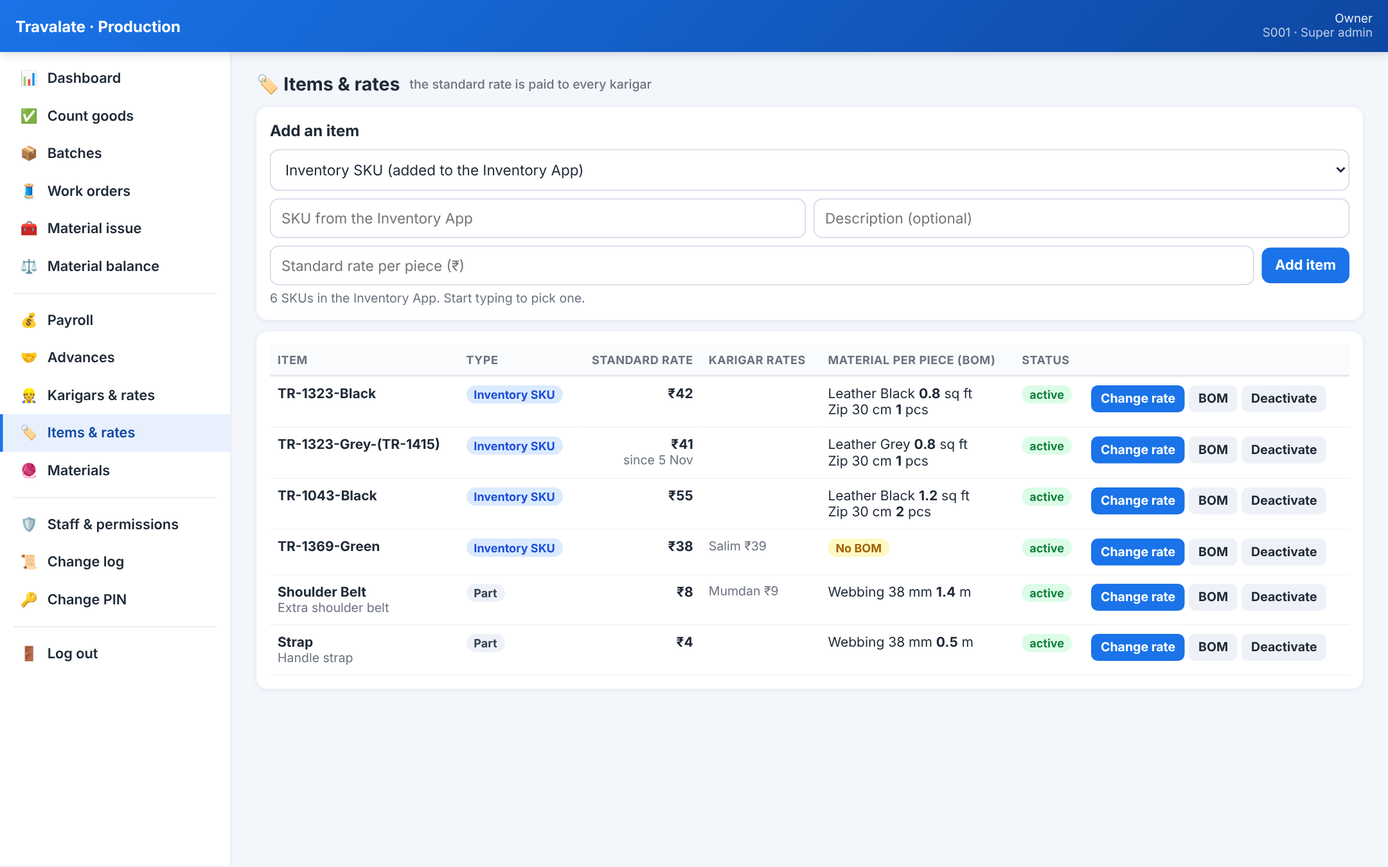
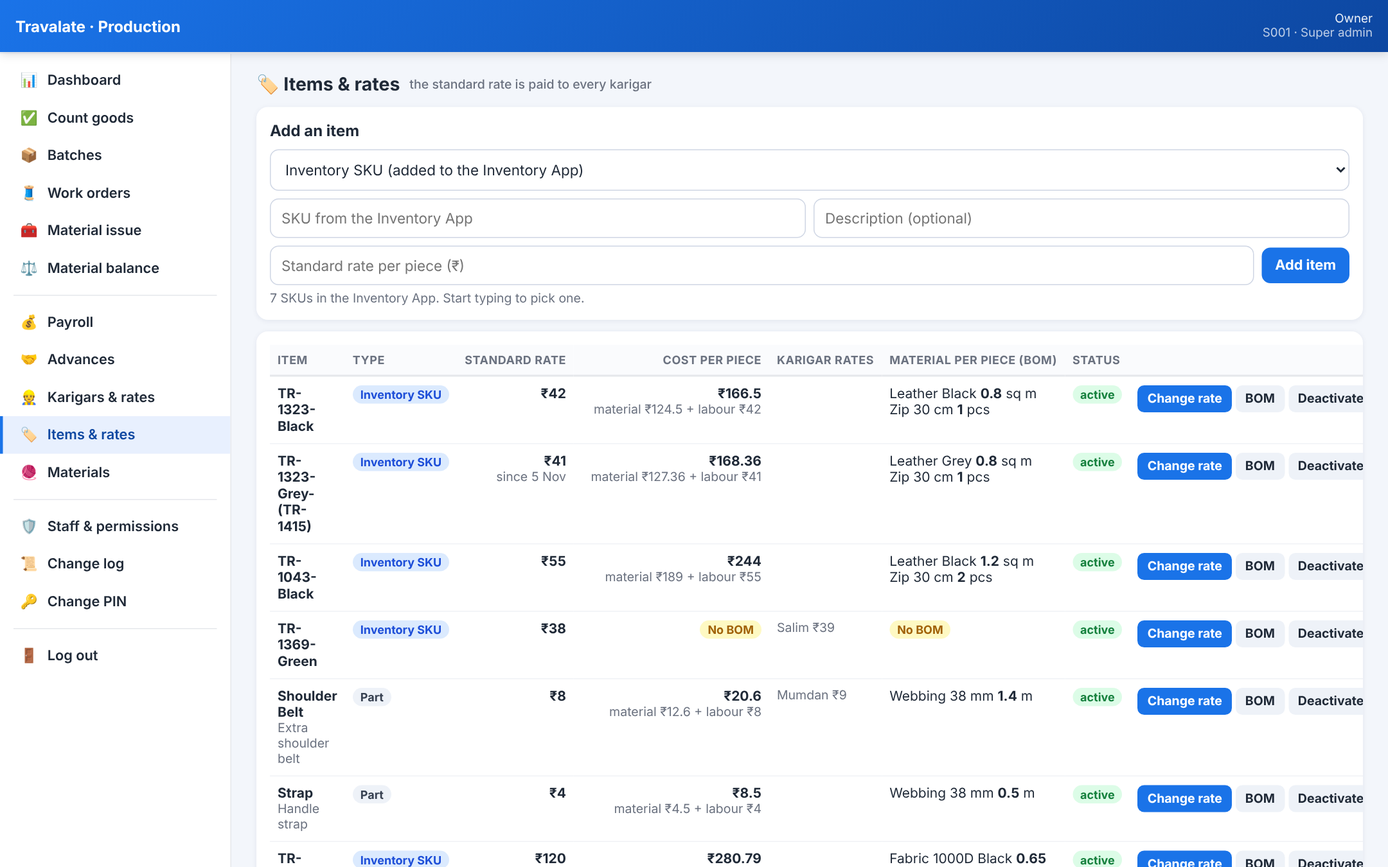
Production app: material prices and production cost per piece
- Materials have a price as bought (roll: length x width; by weight: price per kg and grams per unit;
  by count: per piece or pack) converted to the BOM unit; price history in 'Material Prices'.
- Each issue saves the cost per unit of the day; lots show material + labour cost per piece and in total.
- Items & rates show the production cost per piece with a breakdown.

Claude-Session: https://claude.ai/code/session_01Kh5UPgEYYGq7tCgf8f7WJ8

diff --git a/production-app/Index.html b/production-app/Index.html
@@ -502,14 +502,16 @@ VIEWS.orders = function (all) {
         (r.canRate ? '<div class="row" style="margin-top:8px"><input id="woR" type="number" step="any" inputmode="decimal" placeholder="Special rate for this lot (blank = normal rate)" oninput="woHint()"></div>' +
           '<div class="chk" id="woFutureRow" style="display:none"><input type="checkbox" id="woF"> Also use this rate for this karigar\'s future lots of this item</div>' : '') +
         '<div class="muted" id="woHint" style="margin-top:6px"></div><div class="muted">The lot\'s material (quantity × material per piece) is issued to the karigar automatically. A different person confirms the hand-over in Material issue.</div><button class="btn block" onclick="saveWo(this)">Add work order</button></div>' : '') +
-      '<div class="card scroll"><table class="tbl"><tr><th>Lot</th><th>Karigar</th><th>Item</th><th class="r">Rate</th><th class="r">Ordered</th><th class="r">Received</th><th class="r">To make</th><th>Material for the lot</th><th></th></tr>' +
+      '<div class="card scroll"><table class="tbl"><tr><th>Lot</th><th>Karigar</th><th>Item</th><th class="r">Rate</th><th class="r">Ordered</th><th class="r">Received</th><th class="r">To make</th><th>Material for the lot</th><th class="r">Cost / piece</th><th class="r">Lot cost</th><th></th></tr>' +
       (r.list.map(function (o) {
         var rate = o.rate !== null ? money(o.rate) + '<div>' + srcPill(o.rateSource) + '</div>' : (o.rateNow !== null ? money(o.rateNow) : '<span class="pill warn">No rate</span>');
         var btns = (o.open && r.canRate ? '<button class="btn sm" onclick="lotRate(\'' + o.id + '\')">Rate</button> ' : '') +
           (o.open ? (r.canEdit ? '<button class="btn sec sm" onclick="woStatus(\'' + o.id + '\',\'CLOSED\',this)">Close</button>' : '<span class="pill info">Open</span>') : o.done ? '<span class="pill ok">Done</span>' : '<span class="pill">Closed</span>' + (r.canEdit ? ' <button class="btn sec sm" onclick="woStatus(\'' + o.id + '\',\'OPEN\',this)">Reopen</button>' : ''));
         return '<tr><td><b>' + o.id + '</b><div class="muted">' + d(o.date) + '</div></td><td>' + esc(o.karigar) + '</td><td>' + esc(o.item) + (o.type === 'PART' ? ' <span class="pill">part</span>' : '') + '</td><td class="r">' + rate + '</td><td class="r">' + o.qty + '</td><td class="r">' + o.received + '</td><td class="r"><b>' + o.remaining + '</b></td>' +
-          '<td class="muted">' + o.material.map(function (m) { return esc(m.material) + ' ' + num(m.qty) + ' ' + esc(m.unit); }).join('<br>') + '</td><td style="white-space:nowrap">' + btns + '</td></tr>';
-      }).join('') || '<tr><td colspan="9" class="muted">No work orders.</td></tr>') + '</table></div>');
+          '<td class="muted">' + o.material.map(function (m) { return esc(m.material) + ' ' + num(m.qty) + ' ' + esc(m.unit); }).join('<br>') + '</td>' +
+          '<td class="r"><b>' + (o.cost.perPiece === null ? '–' : money(o.cost.perPiece)) + '</b><div class="muted">material ' + money(o.cost.materialPerPiece) + '</div>' + (o.cost.missing.length ? '<span class="pill warn">no price</span>' : '') + '</td>' +
+          '<td class="r">' + (o.cost.total === null ? '–' : money(o.cost.total)) + '</td><td style="white-space:nowrap">' + btns + '</td></tr>';
+      }).join('') || '<tr><td colspan="11" class="muted">No work orders.</td></tr>') + '</table></div>');
   }).catch(function (e) { render('<div class="msg err">' + esc(e.message) + '</div>'); });
 };
 function woHint() {
@@ -743,9 +745,10 @@ VIEWS.items = function () {
       (r.canEdit ? '<div class="card"><h2>Add an item</h2><div class="row"><select id="itT" onchange="itType()"><option value="SKU">Inventory SKU (added to the Inventory App)</option><option value="PART">Part (paid, not in inventory)</option></select></div>' +
         '<div class="row" style="margin-top:8px"><input id="itC" list="invSkus" placeholder="SKU from the Inventory App"><datalist id="invSkus"></datalist><input id="itN" placeholder="Description (optional)"></div>' +
         '<div class="row" style="margin-top:8px"><input id="itR" type="number" step="any" inputmode="decimal" placeholder="Standard rate per piece (₹)"><button class="btn fix" onclick="addItem(this)">Add item</button></div><div class="muted" id="itHint" style="margin-top:6px">Loading the SKU list from the Inventory App…</div></div>' : '') +
-      '<div class="card scroll"><table class="tbl"><tr><th>Item</th><th>Type</th><th class="r">Standard rate</th><th>Karigar rates</th><th>Material per piece (BOM)</th><th>Status</th><th></th></tr>' + r.list.map(function (i) {
+      '<div class="card scroll"><table class="tbl"><tr><th>Item</th><th>Type</th><th class="r">Standard rate</th><th class="r">Cost per piece</th><th>Karigar rates</th><th>Material per piece (BOM)</th><th>Status</th><th></th></tr>' + r.list.map(function (i) {
         return '<tr><td><b>' + esc(i.code) + '</b>' + (i.name ? '<div class="muted">' + esc(i.name) + '</div>' : '') + '</td><td>' + (i.type === 'SKU' ? '<span class="pill info">Inventory SKU</span>' : '<span class="pill">Part</span>') + '</td>' +
           '<td class="r">' + (i.rate === null ? '<span class="pill warn">No rate</span>' : '<b>' + money(i.rate) + '</b>') + (i.rateHistory.length > 1 ? '<div class="muted">since ' + d(i.rateHistory[0].from) + '</div>' : '') + '</td>' +
+          '<td class="r">' + costCell(i.cost, 'itemCost(\'' + q(i.code) + '\')') + '</td>' +
           '<td class="muted">' + i.karigarRates.map(function (k) { return esc(k.name) + ' ' + money(k.rate); }).join('<br>') + '</td>' +
           '<td>' + (i.bom.map(function (b) { var m = mats[b.material] || { name: b.material, unit: '' }; return esc(m.name) + ' <b>' + num(b.qty) + '</b> ' + esc(m.unit); }).join('<br>') || '<span class="pill warn">No BOM</span>') + '</td>' +
           '<td>' + (i.active ? '<span class="pill ok">active</span>' : '<span class="pill">inactive</span>') + '</td><td style="white-space:nowrap">' + (r.canEdit ? '<button class="btn sm" onclick="stdRate(\'' + q(i.code) + '\')">Change rate</button> <button class="btn sec sm" onclick="bomForm(\'' + q(i.code) + '\')">BOM</button> <button class="btn sec sm" onclick="toggleItem(\'' + q(i.code) + '\')">' + (i.active ? 'Deactivate' : 'Activate') + '</button>' : '') + '</td></tr>';
@@ -760,13 +763,51 @@ VIEWS.materials = function () {
   api('itemList', S.token).then(function (r) {
     S.data.il = r;
     var used = {}; r.list.forEach(function (i) { i.bom.forEach(function (b) { (used[b.material] = used[b.material] || []).push(i.code); }); });
-    render('<h1 class="page">🧶 Raw materials</h1>' +
-      (r.canEdit ? '<div class="card"><h2>Add a material</h2><div class="row"><input id="mtC" placeholder="Code (e.g. LEA-BLK)"><input id="mtN" placeholder="Name"><input id="mtU" placeholder="Unit (sq ft, m, pcs)"><button class="btn fix" onclick="addMat(this)">Add</button></div></div>' : '') +
-      '<div class="card scroll"><table class="tbl"><tr><th>Code</th><th>Name</th><th>Unit</th><th>Used in (BOM)</th></tr>' + r.materials.map(function (m) {
-        return '<tr><td><b>' + esc(m.code) + '</b></td><td>' + esc(m.name) + '</td><td>' + esc(m.unit) + '</td><td class="muted">' + (used[m.code] || []).map(esc).join(', ') + '</td></tr>';
-      }).join('') + '</table></div><div class="muted">The material per piece of each item (BOM) is set in Items & rates → BOM.</div>');
+    render('<h1 class="page">🧶 Raw materials <small>price as bought → cost per unit used in the BOM</small></h1>' +
+      (r.canEdit ? '<div class="card"><h2>Add a material</h2><div class="row"><input id="mtC" placeholder="Code (e.g. FAB-1000D)"><input id="mtN" placeholder="Name (e.g. Fabric 1000D Black)">' +
+        '<select id="mtU"><option value="">Unit used per piece…</option><option>sq m</option><option>m</option><option>inch</option><option>cm</option><option>pcs</option><option>g</option><option>kg</option></select><button class="btn fix" onclick="addMat(this)">Add</button></div>' +
+        '<div class="muted" style="margin-top:6px">The unit is what the BOM uses for ONE piece: fabric in sq m, chain in inch, kunda in pcs. Then set its price with "Price".</div></div>' : '') +
+      '<div class="card scroll"><table class="tbl"><tr><th>Material</th><th>Unit</th><th>Bought as</th><th class="r">Price</th><th class="r">Cost per unit</th><th>Used in</th><th></th></tr>' + r.materials.map(function (m) {
+        return '<tr><td><b>' + esc(m.name) + '</b><div class="muted">' + esc(m.code) + '</div></td><td>' + esc(m.unit) + '</td><td class="muted">' + esc((m.conversion && m.conversion.text) || '') + '</td>' +
+          '<td class="r">' + (m.price === null ? '<span class="pill warn">No price</span>' : money(m.price) + ' / ' + esc(m.purchaseUnit) + '<div class="muted">' + d(m.priceDate) + '</div>') + '</td>' +
+          '<td class="r">' + (m.unitCost === null ? '–' : '<b>' + money(m.unitCost) + '</b> / ' + esc(m.unit)) + '</td><td class="muted">' + (used[m.code] || []).map(esc).join(', ') + '</td>' +
+          '<td>' + (r.canEdit ? '<button class="btn sm" onclick="matPrice(\'' + q(m.code) + '\')">Price</button>' : '') + '</td></tr>';
+      }).join('') + '</table></div><div class="muted">The material per piece of each item (BOM) is set in Items & rates → BOM. A new price is used for material issued from now on; earlier lots keep the cost they were issued at.</div>');
   }).catch(function (e) { render('<div class="msg err">' + esc(e.message) + '</div>'); });
 };
+function matPrice(code) {
+  var m = S.data.il.materials.filter(function (x) { return x.code === code; })[0], c = m.conversion || {};
+  var t = m.purchaseType || (/^sq/i.test(m.unit) ? 'ROLL' : m.unit === 'pcs' ? 'PACK' : 'UNIT');
+  var radio = function (v, label) { return '<div class="chk"><input type="radio" name="mpT" value="' + v + '"' + (t === v ? ' checked' : '') + ' onchange="mpShow()"> ' + label + '</div>'; };
+  modal('Price · ' + m.name, '<div class="kv"><div>Unit per piece</div><div><b>' + esc(m.unit) + '</b></div><div>Cost now</div><div>' + (m.unitCost === null ? '–' : money(m.unitCost) + ' / ' + esc(m.unit)) + '</div></div>' +
+    '<label class="f">How is it bought?</label>' + radio('ROLL', 'Roll (length × width, priced per roll)') + radio('WEIGHT', 'By weight (priced per kg)') + radio('PACK', 'By count (per piece or per pack)') + radio('UNIT', 'Per ' + esc(m.unit)) +
+    '<div id="mpROLL" class="mp"><div class="row"><div><label class="f">Roll length (m)</label><input id="mpL" type="number" step="any" value="' + (c.length || '') + '" oninput="mpCalc()"></div><div><label class="f">Width (m)</label><input id="mpW" type="number" step="any" value="' + (c.width || '') + '" oninput="mpCalc()"></div></div></div>' +
+    '<div id="mpWEIGHT" class="mp"><label class="f">Weight of 1 ' + esc(m.unit) + ' in grams</label><input id="mpG" type="number" step="any" value="' + (c.grams || '') + '" oninput="mpCalc()"></div>' +
+    '<div id="mpPACK" class="mp"><label class="f">Pieces in one pack (1 = priced per piece)</label><input id="mpN" type="number" step="any" value="' + (c.count || 1) + '" oninput="mpCalc()"></div>' +
+    '<label class="f" id="mpPL">Price</label><input id="mpP" type="number" step="any" inputmode="decimal" value="' + (m.price || '') + '" oninput="mpCalc()">' +
+    '<div class="msg info" id="mpOut" style="margin-top:10px"></div><label class="f">Note (e.g. new roll received)</label><input id="mpNote"><button class="btn block" id="mpB">Save price</button>' +
+    (m.history.length ? '<h3>Price history</h3>' + m.history.map(function (h) { return '<div class="muted">' + d(h.date) + ': ' + money(h.price) + ' / ' + esc(h.purchaseUnit) + ' · ' + esc(h.text) + ' → <b>' + money(h.unitCost) + '</b> / ' + esc(m.unit) + ' · ' + esc(h.by) + (h.note ? ' · ' + esc(h.note) : '') + '</div>'; }).join('') : ''));
+  S.data.mp = m; mpShow();
+  $('mpB').onclick = function () {
+    busy(this, true);
+    api('setMaterialPrice', S.token, { code: code, type: mpType(), price: val('mpP'), length: val('mpL'), width: val('mpW'), grams: val('mpG'), count: val('mpN'), note: val('mpNote') })
+      .then(function () { closeModal(); toast('Price saved'); go('materials'); }).catch(function (e) { fail(e, $('mpB')); });
+  };
+}
+function mpType() { return document.querySelector('input[name=mpT]:checked').value; }
+function mpShow() {
+  var t = mpType(); ['ROLL', 'WEIGHT', 'PACK'].forEach(function (x) { $('mp' + x).style.display = x === t ? 'block' : 'none'; });
+  $('mpPL').textContent = t === 'ROLL' ? 'Price of one roll' : t === 'WEIGHT' ? 'Price per kg' : t === 'PACK' ? 'Price of one pack (or one piece)' : 'Price per ' + S.data.mp.unit;
+  mpCalc();
+}
+function mpCalc() {
+  var t = mpType(), m = S.data.mp, p = Number(val('mpP')), per = 0, how = '';
+  if (t === 'ROLL') { per = Number(val('mpL')) * Number(val('mpW')); how = 'One roll = ' + num(per) + ' sq m'; }
+  else if (t === 'WEIGHT') { var g = Number(val('mpG')); per = g > 0 ? 1000 / g : 0; how = '1 kg = ' + num(per) + ' ' + m.unit; }
+  else if (t === 'PACK') { per = Number(val('mpN')); how = 'One pack = ' + num(per) + ' ' + m.unit; }
+  else { per = 1; how = ''; }
+  $('mpOut').innerHTML = p > 0 && per > 0 ? (how ? esc(how) + ' → ' : '') + '<b>' + money(Math.round(p / per * 10000) / 10000) + ' per ' + esc(m.unit) + '</b>' : 'Fill in the price' + (t === 'UNIT' ? '' : ' and the size') + ' to see the cost per ' + esc(m.unit) + '.';
+}
 function itType() { $('itC').placeholder = val('itT') === 'SKU' ? 'SKU from the Inventory App' : 'Part name (e.g. Shoulder Belt)'; }
 function addItem(btn) { busy(btn, true); api('saveItem', S.token, { code: val('itC'), name: val('itN'), type: val('itT'), rate: val('itR') }).then(function () { toast('Item added'); go('items'); }).catch(function (e) { fail(e, btn); }); }
 function toggleItem(code) { var i = S.data.il.list.filter(function (x) { return x.code === code; })[0]; api('saveItem', S.token, { code: i.code, name: i.name, type: i.type, active: !i.active, checkInventory: false }).then(function () { go('items'); }).catch(function (e) { toast(e.message); }); }
@@ -794,6 +835,19 @@ function stdRate(code) {
     busy(this, true);
     api('saveStandardRate', S.token, { item: code, rate: val('srR'), apply: apply, orderIds: ids, note: val('srN') }).then(function () { closeModal(); toast('Standard rate saved'); go('items'); }).catch(function (e) { fail(e, $('srB')); });
   };
+}
+function costCell(c, onclick) {
+  if (c.noBom) return '<span class="pill warn">No BOM</span>';
+  return '<a style="cursor:pointer" onclick="' + onclick + '"><b>' + (c.total === null ? '–' : money(c.total)) + '</b></a><div class="muted">material ' + money(c.material) + (c.labour !== null ? ' + labour ' + money(c.labour) : '') + '</div>' +
+    (c.missing.length ? '<span class="pill warn">no price: ' + c.missing.map(esc).join(', ') + '</span>' : '');
+}
+function itemCost(code) {
+  var i = S.data.il.list.filter(function (x) { return x.code === code; })[0], c = i.cost;
+  modal('Cost of 1 piece · ' + code, '<table class="tbl"><tr><th>Material</th><th class="r">Per piece</th><th class="r">Cost per unit</th><th class="r">Cost</th></tr>' +
+    c.lines.map(function (l) { return '<tr><td>' + esc(l.material) + '</td><td class="r">' + num(l.qty) + ' ' + esc(l.unit) + '</td><td class="r">' + (l.unitCost === null ? '<span class="pill warn">no price</span>' : money(l.unitCost) + ' / ' + esc(l.unit)) + '</td><td class="r">' + (l.cost === null ? '–' : money(l.cost)) + '</td></tr>'; }).join('') +
+    '<tr><td colspan="3">Material</td><td class="r"><b>' + money(c.material) + '</b></td></tr><tr><td colspan="3">Labour (standard rate)</td><td class="r">' + (c.labour === null ? '–' : money(c.labour)) + '</td></tr>' +
+    '<tfoot><tr><td colspan="3">Production cost per piece</td><td class="r">' + (c.total === null ? '–' : money(c.total)) + '</td></tr></tfoot></table>' +
+    '<div class="muted" style="margin-top:8px">At today\'s material prices. Each lot\'s real cost (at the price its material was issued at) is in Work orders.</div>');
 }
 function srSel() { $('srLots').style.display = document.querySelector('input[name=srA]:checked').value === 'selected' ? 'block' : 'none'; }
 function bomForm(code) {

diff --git a/production/index.html b/production/index.html
@@ -502,14 +502,16 @@ VIEWS.orders = function (all) {
         (r.canRate ? '<div class="row" style="margin-top:8px"><input id="woR" type="number" step="any" inputmode="decimal" placeholder="Special rate for this lot (blank = normal rate)" oninput="woHint()"></div>' +
           '<div class="chk" id="woFutureRow" style="display:none"><input type="checkbox" id="woF"> Also use this rate for this karigar\'s future lots of this item</div>' : '') +
         '<div class="muted" id="woHint" style="margin-top:6px"></div><div class="muted">The lot\'s material (quantity × material per piece) is issued to the karigar automatically. A different person confirms the hand-over in Material issue.</div><button class="btn block" onclick="saveWo(this)">Add work order</button></div>' : '') +
-      '<div class="card scroll"><table class="tbl"><tr><th>Lot</th><th>Karigar</th><th>Item</th><th class="r">Rate</th><th class="r">Ordered</th><th class="r">Received</th><th class="r">To make</th><th>Material for the lot</th><th></th></tr>' +
+      '<div class="card scroll"><table class="tbl"><tr><th>Lot</th><th>Karigar</th><th>Item</th><th class="r">Rate</th><th class="r">Ordered</th><th class="r">Received</th><th class="r">To make</th><th>Material for the lot</th><th class="r">Cost / piece</th><th class="r">Lot cost</th><th></th></tr>' +
       (r.list.map(function (o) {
         var rate = o.rate !== null ? money(o.rate) + '<div>' + srcPill(o.rateSource) + '</div>' : (o.rateNow !== null ? money(o.rateNow) : '<span class="pill warn">No rate</span>');
         var btns = (o.open && r.canRate ? '<button class="btn sm" onclick="lotRate(\'' + o.id + '\')">Rate</button> ' : '') +
           (o.open ? (r.canEdit ? '<button class="btn sec sm" onclick="woStatus(\'' + o.id + '\',\'CLOSED\',this)">Close</button>' : '<span class="pill info">Open</span>') : o.done ? '<span class="pill ok">Done</span>' : '<span class="pill">Closed</span>' + (r.canEdit ? ' <button class="btn sec sm" onclick="woStatus(\'' + o.id + '\',\'OPEN\',this)">Reopen</button>' : ''));
         return '<tr><td><b>' + o.id + '</b><div class="muted">' + d(o.date) + '</div></td><td>' + esc(o.karigar) + '</td><td>' + esc(o.item) + (o.type === 'PART' ? ' <span class="pill">part</span>' : '') + '</td><td class="r">' + rate + '</td><td class="r">' + o.qty + '</td><td class="r">' + o.received + '</td><td class="r"><b>' + o.remaining + '</b></td>' +
-          '<td class="muted">' + o.material.map(function (m) { return esc(m.material) + ' ' + num(m.qty) + ' ' + esc(m.unit); }).join('<br>') + '</td><td style="white-space:nowrap">' + btns + '</td></tr>';
-      }).join('') || '<tr><td colspan="9" class="muted">No work orders.</td></tr>') + '</table></div>');
+          '<td class="muted">' + o.material.map(function (m) { return esc(m.material) + ' ' + num(m.qty) + ' ' + esc(m.unit); }).join('<br>') + '</td>' +
+          '<td class="r"><b>' + (o.cost.perPiece === null ? '–' : money(o.cost.perPiece)) + '</b><div class="muted">material ' + money(o.cost.materialPerPiece) + '</div>' + (o.cost.missing.length ? '<span class="pill warn">no price</span>' : '') + '</td>' +
+          '<td class="r">' + (o.cost.total === null ? '–' : money(o.cost.total)) + '</td><td style="white-space:nowrap">' + btns + '</td></tr>';
+      }).join('') || '<tr><td colspan="11" class="muted">No work orders.</td></tr>') + '</table></div>');
   }).catch(function (e) { render('<div class="msg err">' + esc(e.message) + '</div>'); });
 };
 function woHint() {
@@ -743,9 +745,10 @@ VIEWS.items = function () {
       (r.canEdit ? '<div class="card"><h2>Add an item</h2><div class="row"><select id="itT" onchange="itType()"><option value="SKU">Inventory SKU (added to the Inventory App)</option><option value="PART">Part (paid, not in inventory)</option></select></div>' +
         '<div class="row" style="margin-top:8px"><input id="itC" list="invSkus" placeholder="SKU from the Inventory App"><datalist id="invSkus"></datalist><input id="itN" placeholder="Description (optional)"></div>' +
         '<div class="row" style="margin-top:8px"><input id="itR" type="number" step="any" inputmode="decimal" placeholder="Standard rate per piece (₹)"><button class="btn fix" onclick="addItem(this)">Add item</button></div><div class="muted" id="itHint" style="margin-top:6px">Loading the SKU list from the Inventory App…</div></div>' : '') +
-      '<div class="card scroll"><table class="tbl"><tr><th>Item</th><th>Type</th><th class="r">Standard rate</th><th>Karigar rates</th><th>Material per piece (BOM)</th><th>Status</th><th></th></tr>' + r.list.map(function (i) {
+      '<div class="card scroll"><table class="tbl"><tr><th>Item</th><th>Type</th><th class="r">Standard rate</th><th class="r">Cost per piece</th><th>Karigar rates</th><th>Material per piece (BOM)</th><th>Status</th><th></th></tr>' + r.list.map(function (i) {
         return '<tr><td><b>' + esc(i.code) + '</b>' + (i.name ? '<div class="muted">' + esc(i.name) + '</div>' : '') + '</td><td>' + (i.type === 'SKU' ? '<span class="pill info">Inventory SKU</span>' : '<span class="pill">Part</span>') + '</td>' +
           '<td class="r">' + (i.rate === null ? '<span class="pill warn">No rate</span>' : '<b>' + money(i.rate) + '</b>') + (i.rateHistory.length > 1 ? '<div class="muted">since ' + d(i.rateHistory[0].from) + '</div>' : '') + '</td>' +
+          '<td class="r">' + costCell(i.cost, 'itemCost(\'' + q(i.code) + '\')') + '</td>' +
           '<td class="muted">' + i.karigarRates.map(function (k) { return esc(k.name) + ' ' + money(k.rate); }).join('<br>') + '</td>' +
           '<td>' + (i.bom.map(function (b) { var m = mats[b.material] || { name: b.material, unit: '' }; return esc(m.name) + ' <b>' + num(b.qty) + '</b> ' + esc(m.unit); }).join('<br>') || '<span class="pill warn">No BOM</span>') + '</td>' +
           '<td>' + (i.active ? '<span class="pill ok">active</span>' : '<span class="pill">inactive</span>') + '</td><td style="white-space:nowrap">' + (r.canEdit ? '<button class="btn sm" onclick="stdRate(\'' + q(i.code) + '\')">Change rate</button> <button class="btn sec sm" onclick="bomForm(\'' + q(i.code) + '\')">BOM</button> <button class="btn sec sm" onclick="toggleItem(\'' + q(i.code) + '\')">' + (i.active ? 'Deactivate' : 'Activate') + '</button>' : '') + '</td></tr>';
@@ -760,13 +763,51 @@ VIEWS.materials = function () {
   api('itemList', S.token).then(function (r) {
     S.data.il = r;
     var used = {}; r.list.forEach(function (i) { i.bom.forEach(function (b) { (used[b.material] = used[b.material] || []).push(i.code); }); });
-    render('<h1 class="page">🧶 Raw materials</h1>' +
-      (r.canEdit ? '<div class="card"><h2>Add a material</h2><div class="row"><input id="mtC" placeholder="Code (e.g. LEA-BLK)"><input id="mtN" placeholder="Name"><input id="mtU" placeholder="Unit (sq ft, m, pcs)"><button class="btn fix" onclick="addMat(this)">Add</button></div></div>' : '') +
-      '<div class="card scroll"><table class="tbl"><tr><th>Code</th><th>Name</th><th>Unit</th><th>Used in (BOM)</th></tr>' + r.materials.map(function (m) {
-        return '<tr><td><b>' + esc(m.code) + '</b></td><td>' + esc(m.name) + '</td><td>' + esc(m.unit) + '</td><td class="muted">' + (used[m.code] || []).map(esc).join(', ') + '</td></tr>';
-      }).join('') + '</table></div><div class="muted">The material per piece of each item (BOM) is set in Items & rates → BOM.</div>');
+    render('<h1 class="page">🧶 Raw materials <small>price as bought → cost per unit used in the BOM</small></h1>' +
+      (r.canEdit ? '<div class="card"><h2>Add a material</h2><div class="row"><input id="mtC" placeholder="Code (e.g. FAB-1000D)"><input id="mtN" placeholder="Name (e.g. Fabric 1000D Black)">' +
+        '<select id="mtU"><option value="">Unit used per piece…</option><option>sq m</option><option>m</option><option>inch</option><option>cm</option><option>pcs</option><option>g</option><option>kg</option></select><button class="btn fix" onclick="addMat(this)">Add</button></div>' +
+        '<div class="muted" style="margin-top:6px">The unit is what the BOM uses for ONE piece: fabric in sq m, chain in inch, kunda in pcs. Then set its price with "Price".</div></div>' : '') +
+      '<div class="card scroll"><table class="tbl"><tr><th>Material</th><th>Unit</th><th>Bought as</th><th class="r">Price</th><th class="r">Cost per unit</th><th>Used in</th><th></th></tr>' + r.materials.map(function (m) {
+        return '<tr><td><b>' + esc(m.name) + '</b><div class="muted">' + esc(m.code) + '</div></td><td>' + esc(m.unit) + '</td><td class="muted">' + esc((m.conversion && m.conversion.text) || '') + '</td>' +
+          '<td class="r">' + (m.price === null ? '<span class="pill warn">No price</span>' : money(m.price) + ' / ' + esc(m.purchaseUnit) + '<div class="muted">' + d(m.priceDate) + '</div>') + '</td>' +
+          '<td class="r">' + (m.unitCost === null ? '–' : '<b>' + money(m.unitCost) + '</b> / ' + esc(m.unit)) + '</td><td class="muted">' + (used[m.code] || []).map(esc).join(', ') + '</td>' +
+          '<td>' + (r.canEdit ? '<button class="btn sm" onclick="matPrice(\'' + q(m.code) + '\')">Price</button>' : '') + '</td></tr>';
+      }).join('') + '</table></div><div class="muted">The material per piece of each item (BOM) is set in Items & rates → BOM. A new price is used for material issued from now on; earlier lots keep the cost they were issued at.</div>');
   }).catch(function (e) { render('<div class="msg err">' + esc(e.message) + '</div>'); });
 };
+function matPrice(code) {
+  var m = S.data.il.materials.filter(function (x) { return x.code === code; })[0], c = m.conversion || {};
+  var t = m.purchaseType || (/^sq/i.test(m.unit) ? 'ROLL' : m.unit === 'pcs' ? 'PACK' : 'UNIT');
+  var radio = function (v, label) { return '<div class="chk"><input type="radio" name="mpT" value="' + v + '"' + (t === v ? ' checked' : '') + ' onchange="mpShow()"> ' + label + '</div>'; };
+  modal('Price · ' + m.name, '<div class="kv"><div>Unit per piece</div><div><b>' + esc(m.unit) + '</b></div><div>Cost now</div><div>' + (m.unitCost === null ? '–' : money(m.unitCost) + ' / ' + esc(m.unit)) + '</div></div>' +
+    '<label class="f">How is it bought?</label>' + radio('ROLL', 'Roll (length × width, priced per roll)') + radio('WEIGHT', 'By weight (priced per kg)') + radio('PACK', 'By count (per piece or per pack)') + radio('UNIT', 'Per ' + esc(m.unit)) +
+    '<div id="mpROLL" class="mp"><div class="row"><div><label class="f">Roll length (m)</label><input id="mpL" type="number" step="any" value="' + (c.length || '') + '" oninput="mpCalc()"></div><div><label class="f">Width (m)</label><input id="mpW" type="number" step="any" value="' + (c.width || '') + '" oninput="mpCalc()"></div></div></div>' +
+    '<div id="mpWEIGHT" class="mp"><label class="f">Weight of 1 ' + esc(m.unit) + ' in grams</label><input id="mpG" type="number" step="any" value="' + (c.grams || '') + '" oninput="mpCalc()"></div>' +
+    '<div id="mpPACK" class="mp"><label class="f">Pieces in one pack (1 = priced per piece)</label><input id="mpN" type="number" step="any" value="' + (c.count || 1) + '" oninput="mpCalc()"></div>' +
+    '<label class="f" id="mpPL">Price</label><input id="mpP" type="number" step="any" inputmode="decimal" value="' + (m.price || '') + '" oninput="mpCalc()">' +
+    '<div class="msg info" id="mpOut" style="margin-top:10px"></div><label class="f">Note (e.g. new roll received)</label><input id="mpNote"><button class="btn block" id="mpB">Save price</button>' +
+    (m.history.length ? '<h3>Price history</h3>' + m.history.map(function (h) { return '<div class="muted">' + d(h.date) + ': ' + money(h.price) + ' / ' + esc(h.purchaseUnit) + ' · ' + esc(h.text) + ' → <b>' + money(h.unitCost) + '</b> / ' + esc(m.unit) + ' · ' + esc(h.by) + (h.note ? ' · ' + esc(h.note) : '') + '</div>'; }).join('') : ''));
+  S.data.mp = m; mpShow();
+  $('mpB').onclick = function () {
+    busy(this, true);
+    api('setMaterialPrice', S.token, { code: code, type: mpType(), price: val('mpP'), length: val('mpL'), width: val('mpW'), grams: val('mpG'), count: val('mpN'), note: val('mpNote') })
+      .then(function () { closeModal(); toast('Price saved'); go('materials'); }).catch(function (e) { fail(e, $('mpB')); });
+  };
+}
+function mpType() { return document.querySelector('input[name=mpT]:checked').value; }
+function mpShow() {
+  var t = mpType(); ['ROLL', 'WEIGHT', 'PACK'].forEach(function (x) { $('mp' + x).style.display = x === t ? 'block' : 'none'; });
+  $('mpPL').textContent = t === 'ROLL' ? 'Price of one roll' : t === 'WEIGHT' ? 'Price per kg' : t === 'PACK' ? 'Price of one pack (or one piece)' : 'Price per ' + S.data.mp.unit;
+  mpCalc();
+}
+function mpCalc() {
+  var t = mpType(), m = S.data.mp, p = Number(val('mpP')), per = 0, how = '';
+  if (t === 'ROLL') { per = Number(val('mpL')) * Number(val('mpW')); how = 'One roll = ' + num(per) + ' sq m'; }
+  else if (t === 'WEIGHT') { var g = Number(val('mpG')); per = g > 0 ? 1000 / g : 0; how = '1 kg = ' + num(per) + ' ' + m.unit; }
+  else if (t === 'PACK') { per = Number(val('mpN')); how = 'One pack = ' + num(per) + ' ' + m.unit; }
+  else { per = 1; how = ''; }
+  $('mpOut').innerHTML = p > 0 && per > 0 ? (how ? esc(how) + ' → ' : '') + '<b>' + money(Math.round(p / per * 10000) / 10000) + ' per ' + esc(m.unit) + '</b>' : 'Fill in the price' + (t === 'UNIT' ? '' : ' and the size') + ' to see the cost per ' + esc(m.unit) + '.';
+}
 function itType() { $('itC').placeholder = val('itT') === 'SKU' ? 'SKU from the Inventory App' : 'Part name (e.g. Shoulder Belt)'; }
 function addItem(btn) { busy(btn, true); api('saveItem', S.token, { code: val('itC'), name: val('itN'), type: val('itT'), rate: val('itR') }).then(function () { toast('Item added'); go('items'); }).catch(function (e) { fail(e, btn); }); }
 function toggleItem(code) { var i = S.data.il.list.filter(function (x) { return x.code === code; })[0]; api('saveItem', S.token, { code: i.code, name: i.name, type: i.type, active: !i.active, checkInventory: false }).then(function () { go('items'); }).catch(function (e) { toast(e.message); }); }
@@ -794,6 +835,19 @@ function stdRate(code) {
     busy(this, true);
     api('saveStandardRate', S.token, { item: code, rate: val('srR'), apply: apply, orderIds: ids, note: val('srN') }).then(function () { closeModal(); toast('Standard rate saved'); go('items'); }).catch(function (e) { fail(e, $('srB')); });
   };
+}
+function costCell(c, onclick) {
+  if (c.noBom) return '<span class="pill warn">No BOM</span>';
+  return '<a style="cursor:pointer" onclick="' + onclick + '"><b>' + (c.total === null ? '–' : money(c.total)) + '</b></a><div class="muted">material ' + money(c.material) + (c.labour !== null ? ' + labour ' + money(c.labour) : '') + '</div>' +
+    (c.missing.length ? '<span class="pill warn">no price: ' + c.missing.map(esc).join(', ') + '</span>' : '');
+}
+function itemCost(code) {
+  var i = S.data.il.list.filter(function (x) { return x.code === code; })[0], c = i.cost;
+  modal('Cost of 1 piece · ' + code, '<table class="tbl"><tr><th>Material</th><th class="r">Per piece</th><th class="r">Cost per unit</th><th class="r">Cost</th></tr>' +
+    c.lines.map(function (l) { return '<tr><td>' + esc(l.material) + '</td><td class="r">' + num(l.qty) + ' ' + esc(l.unit) + '</td><td class="r">' + (l.unitCost === null ? '<span class="pill warn">no price</span>' : money(l.unitCost) + ' / ' + esc(l.unit)) + '</td><td class="r">' + (l.cost === null ? '–' : money(l.cost)) + '</td></tr>'; }).join('') +
+    '<tr><td colspan="3">Material</td><td class="r"><b>' + money(c.material) + '</b></td></tr><tr><td colspan="3">Labour (standard rate)</td><td class="r">' + (c.labour === null ? '–' : money(c.labour)) + '</td></tr>' +
+    '<tfoot><tr><td colspan="3">Production cost per piece</td><td class="r">' + (c.total === null ? '–' : money(c.total)) + '</td></tr></tfoot></table>' +
+    '<div class="muted" style="margin-top:8px">At today\'s material prices. Each lot\'s real cost (at the price its material was issued at) is in Work orders.</div>');
 }
 function srSel() { $('srLots').style.display = document.querySelector('input[name=srA]:checked').value === 'selected' ? 'block' : 'none'; }
 function bomForm(code) {

diff --git a/production-app/README.md b/production-app/README.md
@@ -32,6 +32,15 @@ Karigars make bags and parts for you. This app keeps track of everything from ra
 - **Advances:** given with a cut per pay period (Advances tab). At **payroll**, the person who approves pay
   can **raise, lower or zero** each karigar's cut for that month (**Change** under the advance). This only
   works before approving, and later periods keep the normal cut.
+- **Production cost per piece:** every material has a **price as bought** and the app converts it to the unit
+  the BOM uses (Materials → **Price**):
+  - **Roll:** price per roll and its length × width. For example ₹9,000 for 50 m × 1.47 m = 73.5 sq m, so ₹122.45 per sq m.
+  - **By weight:** price per kg and the weight of 1 unit. For example chain at ₹600/kg, where 1 inch weighs 1.2 g:
+    1 kg = 833.3 inch, so ₹0.72 per inch.
+  - **By count:** price per piece or per pack (e.g. kunda ₹250 for 100 = ₹2.50 each), or a price per unit.
+  - **Items & rates** shows the **cost per piece** = Σ(material per piece × cost per unit) + labour (standard
+    rate), with a breakdown. **Work orders** show each lot's real cost: the material issued for it at the price
+    on the day it was issued, plus the lot's rate. A new price does not change earlier lots.
 - **Material balance:** given − used (good + rejected pieces × material per piece). No wastage allowance. A
   negative balance (more made than the material given, e.g. goods without a lot) or material left with a
   karigar who has no running lot is **flagged**.
@@ -73,7 +82,8 @@ Screens are in `production-app/screenshots/`.
 1. **Staff & permissions:** add the people who count, issue material, confirm, approve pay. Permissions:
    count goods, enter material, confirm material, work orders, approve & pay, advances, masters (karigars,
    items, materials, rates), reports. A super admin has everything.
-2. **Materials:** add the raw materials.
+2. **Materials:** add the raw materials with the unit the BOM uses (sq m, inch, pcs …) and set each one's
+   **Price** (roll / by weight / by count).
 3. **Items & rates:** add inventory SKUs (picked from the Inventory App's list) and parts, each with its
    **standard rate**. Set each item's **material per piece (BOM)**.
 4. **Karigars & rates:** add karigars (ID + PIN). Set a karigar's own rate only in the rare cases it differs.
@@ -163,9 +173,10 @@ How it works:
 | Karigars / Staff | IDs, names, PINs (hashed after the first login), staff roles and permissions |
 | Items | Code, type **SKU** (inventory) or **PART** |
 | Rates | Standard rates (Karigar ID `*`) and karigars' own rates for future lots (`STD` = back to standard). History: a new row per change |
-| Materials / BOM | Raw materials and the material per piece of each item |
+| Materials / BOM | Raw materials with their price as bought and conversion, and the material per piece of each item |
+| Material Prices | Every price change of a material (history) |
 | Work Orders | The lots: what each karigar is making, and the lot's rate (standard / karigar / special) |
-| Material Moves | Material issued (per lot, or extra) with who entered and who confirmed |
+| Material Moves | Material issued (per lot, or extra) with who entered, who confirmed and the cost per unit on the day |
 | Batches | Hand-over claim, count 1 (+photo), count 2 (final), status, final date, inventory status |
 | Batch Lines | Locked counts per item and work order (what pay and the material balance use) |
 | Advances / Advance Periods | Advances and the full / partial / skipped cut per pay period |
